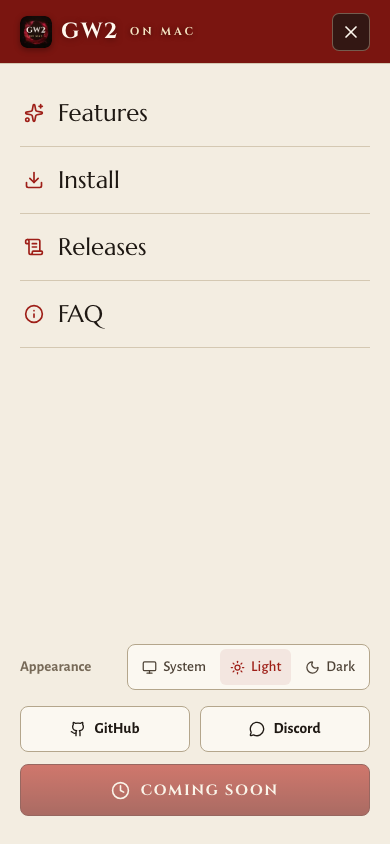
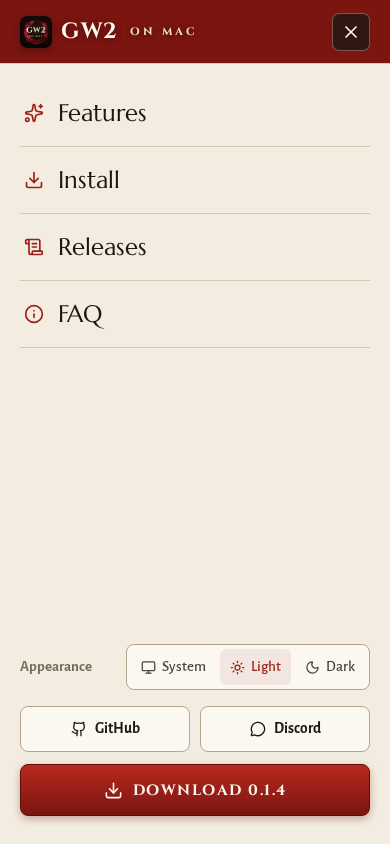
0.2.0's notes, README and site: what the update does (#1)
* Site: Requirements and FAQ for 0.2.0, without Rosetta

0.2.0 needs macOS 26.4 and no Rosetta. The requirements and the answer on
Macs say so, the speed answer names FEX instead of Rosetta, the addon answer
has arcdps and ReShade as the app's switches (jdrly/gw2-on-mac#215), and a
new answer says what the update from 0.1 does and how to go back. The
screenshots in docs/shots are retaken.

To merge on 0.2.0's release day, not before: a push to main deploys.

Refs jdrly/gw2-on-mac#275

Written by an AI agent (Claude).

* Site: Review round 1, macOS 26.4 in the hero, and the move's exceptions

The hero's line names macOS 26.4. The update answer says the move reuses
the game's files, clones on the same disk and copies from another, names
the two installs that don't move, and starts the way back at the DMG. The
addon answer says ReShade hasn't run in the game on 0.2's engine yet.

Written by an AI agent (Claude).

* Site: The move's exceptions as examples, with Choose folder

Written by an AI agent (Claude).

* Site: The download says which macOS takes 0.2 and which 0.1.4

Refs #2. Under the hero's version line, which says macOS 26.4 or later, a second button downloads
the newest 0.1.x release's DMG "for macOS 26.0 to 26.3". It comes from the releases list, so today
that is GW2-on-Mac-0.1.4.dmg. The button shows only while the latest release is newer than 0.1.x:
on today's list, with 0.1.4 the latest, the page is as it was.

Written by an AI agent (Claude).
[…]

diff --git a/src/data/content.ts b/src/data/content.ts
@@ -21,6 +21,9 @@ export interface Copy {
   short?: string;
 }
 
+/** The second download: the newest 0.1.x, for the macOS versions 0.2 doesn't run on (min: what 0.1.x needs) */
+export const olderMac = { line: '0.1.', macos: '26.0 to 26.3', min: '26.0' };
+
 export const hero = {
   kicker: { text: 'A free, open-source app for Apple Silicon Macs', short: 'Free and open source, for Apple Silicon' },
   headline: 'Guild Wars 2, at home on your Mac.',
@@ -131,13 +134,16 @@ export const routes: { id: string; icon: IconName; title: string; sub: string; s
 
 export const requirements: { label: string; value: Copy }[] = [
   { label: 'Chip', value: { text: 'Apple Silicon (M1 or later)', short: 'Apple Silicon' } },
-  { label: 'macOS', value: { text: '26 or later' } },
-  { label: 'Rosetta', value: { text: 'Installed for you if missing', short: 'Installed if missing' } },
+  { label: 'macOS', value: { text: '26.4 or later' } },
+  { label: 'Rosetta', value: { text: 'Not needed' } },
   { label: 'Disk', value: { text: 'About 75 GB free for the game', short: 'About 75 GB free' } },
   { label: 'Account', value: { text: 'Your own, Steam or ArenaNet', short: 'Steam or ArenaNet' } },
 ];
 
 export const requirementsNote = 'Every game download comes from Valve or ArenaNet. GW2 on Mac hosts nothing of the game.';
+
+/** Under the requirements, on every width: the table is 0.2's */
+export const requirementsOlder = "That's for 0.2. On macOS 26.0 to 26.3, use the 0.1 download at the top instead. It needs Rosetta.";
 
 export const safety: { icon: IconName; tone: 'accent' | 'gold'; title: string; text: Copy }[] = [
   {
@@ -180,26 +186,39 @@ export const faq: { q: Copy; a: string[] }[] = [
   {
     q: { text: 'Which Macs and macOS versions?' },
     a: [
-      "A Mac with Apple Silicon (M1 or later) on macOS 26 or later. The game runs through Rosetta, which GW2 on Mac installs for you if it's missing. Intel Macs aren't supported.",
+      "0.2 needs a Mac with Apple Silicon (M1 or later) on macOS 26.4 or later. Intel Macs aren't supported.",
+      "0.2 doesn't need Rosetta. Wine and DXMT run as Apple Silicon code, and FEX translates the game's and Steam's Intel code inside Wine.",
+      "On macOS 26.0 to 26.3, use the 0.1 download at the top. It runs under Rosetta. An installed 0.1 keeps working there as it is, but it gets no update.",
     ],
   },
   {
     q: { text: 'How fast is it?' },
     a: [
-      "It depends on the scene. In big crowds, like Lion's Arch or a busy meta, the limit is the game's own main thread, which runs under Rosetta, so a faster GPU doesn't help much there.",
+      "It depends on the scene. In big crowds, like Lion's Arch or a busy meta, the limit is usually the game's own main thread, whose Intel code FEX translates, so a faster GPU doesn't help much there.",
       "I don't give FPS numbers: they change too much from one Mac and one scene to the next.",
     ],
   },
   {
     q: { text: 'Can I use arcdps or other addons?' },
     a: [
-      "Addons that install as a <code>d3d11.dll</code>, like arcdps, work: they load first and pass the game's calls on to GW2 on Mac's Direct3D 11. Blish HUD isn't supported yet.",
+      "Settings › Interface has two switches, off by default: arcdps and ReShade. Each asks first, then downloads the addon. Both can be on at once, and ReShade then loads arcdps itself. I've played on 0.2's engine with ReShade and arcdps on together.",
+      "ReShade's presets, shaders and screenshots live outside the game, in <code>~/Library/Application Support/GW2 on Mac arm64/ReShade</code>. Drop a preset or a zip on the Settings window to add it.",
+      "Other addons that install as a <code>d3d11.dll</code> next to the game load first and pass its calls on to GW2 on Mac's Direct3D 11. I haven't tested the Nexus loader. Blish HUD isn't supported yet.",
+    ],
+  },
+  {
+    q: { text: 'I play on GW2 on Mac 0.1. What does the update do?', short: 'What does the update from 0.1 do?' },
+    a: [
+      "On macOS 26.4 or later, 0.1 offers 0.2 as an update. At its first start 0.2 moves your install over by itself: a new bottle on the new engine, then Steam's folder with your login and the game, or on ArenaNet's route the game's folder. The game's settings, arcdps and ReShade come along. The move is a rename on the same disk, so it needs no room for a second copy and the game doesn't download again. If 0.1's game is on another disk, the move stops before it changes anything and says why.",
+      "Some installs don't move by themselves, such as one where a 0.2 test build is already installed, or a game in a Steam library outside 0.1's bottle. The window's card Game files I already have brings that game over, with Choose folder… for a library elsewhere.",
+      "After the move the game lives in 0.2. To go back, choose Rollback to 0.1.4 in Settings › Troubleshooting. It moves the game back to 0.1's folder and offers <a href=\"https://github.com/jdrly/gw2-on-mac/releases/download/v0.1.4/GW2-on-Mac-0.1.4.dmg\">0.1.4's DMG</a>: quit GW2 on Mac and drag 0.1.4 over it. 0.1's folders stay until you delete them, and once they're gone, so is the way back.",
     ],
   },
   {
     q: { text: 'What happens to my game when I uninstall?', short: 'What happens when I uninstall?' },
     a: [
       "Uninstall removes the app's bottle, and the game files in it go too. To play again later, you'd download the game again. Your account and characters are on ArenaNet's servers and aren't touched.",
+      "After the update from 0.1, Uninstall refuses while the moved game is in the bottle, since that's its only copy. Choose Rollback to 0.1.4 first.",
     ],
   },
 ];

diff --git a/src/content.config.ts b/src/content.config.ts
@@ -47,6 +47,11 @@ async function loadReleases() {
   if (res.status === 404) return [];
   if (!res.ok) throw new Error(`GitHub releases of ${repo}: ${res.status} ${res.statusText}`);
   const releases = (await res.json()) as GitHubRelease[];
+  // The release GitHub marks Latest, which isn't always the newest by date (a 0.1.x fix published
+  // with --latest=false after 0.2). 404: none yet.
+  const latestRes = await fetch(`https://api.github.com/repos/${repo}/releases/latest`, { headers });
+  if (!latestRes.ok && latestRes.status !== 404) throw new Error(`GitHub latest release of ${repo}: ${latestRes.status} ${latestRes.statusText}`);
+  const latestTag = latestRes.ok ? ((await latestRes.json()) as GitHubRelease).tag_name : undefined;
 
   return releases
     .filter((r) => !r.draft && !r.prerelease)
@@ -60,6 +65,7 @@ async function loadReleases() {
         publishedAt: r.published_at,
         url: r.html_url,
         dmgUrl: dmg?.browser_download_url ?? r.html_url,
+        latest: r.tag_name === latestTag,
         ...parseNotes(r.body_html ?? ''),
       };
     });
@@ -73,6 +79,7 @@ const releases = defineCollection({
     publishedAt: z.coerce.date(),
     url: z.url(),
     dmgUrl: z.url(),
+    latest: z.boolean(),
     summary: z.string(),
     bodyHtml: z.string(),
   }),

diff --git a/src/lib/releases.ts b/src/lib/releases.ts
@@ -10,6 +10,20 @@ export async function getReleases(): Promise<Release[]> {
     .sort((a, b) => b.publishedAt.getTime() - a.publishedAt.getTime());
 }
 
+/** The release GitHub marks Latest, or the newest by date when none is marked */
+export const latestOf = (releases: Release[]): Release | undefined => releases.find((r) => r.latest) ?? releases[0];
+
+/**
+ * The newest release of an older line (`line`, a version prefix such as "0.1.") that has a DMG, for
+ * the Macs the latest (latestOf) doesn't run on. None while the latest is itself on that line, or
+ * before any release.
+ */
+export function olderLine(releases: Release[], line: string): Release | undefined {
+  const latest = latestOf(releases);
+  if (!latest || latest.version.startsWith(line)) return undefined;
+  return releases.find((r) => r.version.startsWith(line) && r.dmgUrl.endsWith('.dmg'));
+}
+
 /** "November 2026" */
 export const formatMonth = (d: Date) =>
   d.toLocaleDateString('en-US', { month: 'long', year: 'numeric', timeZone: 'UTC' });
